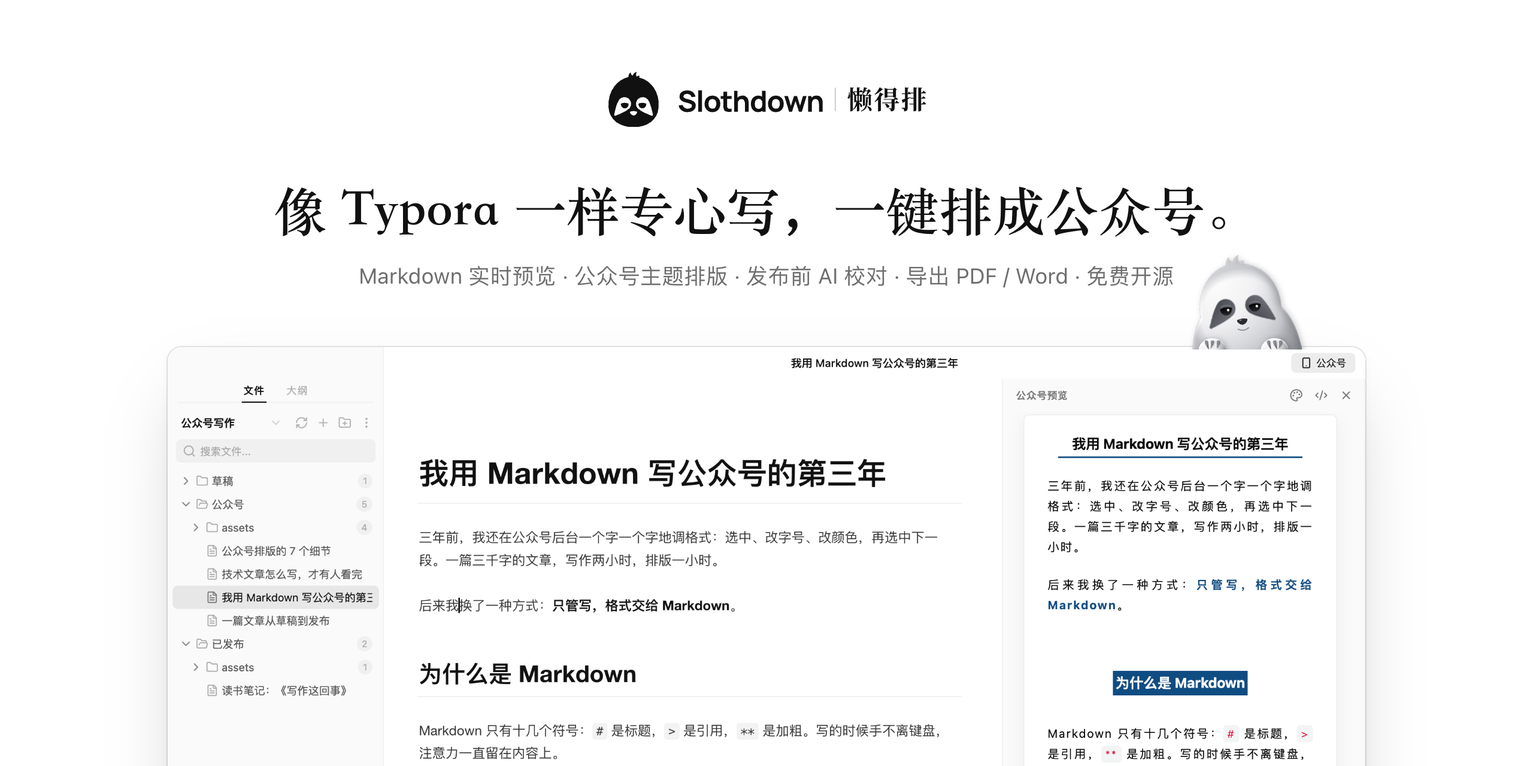
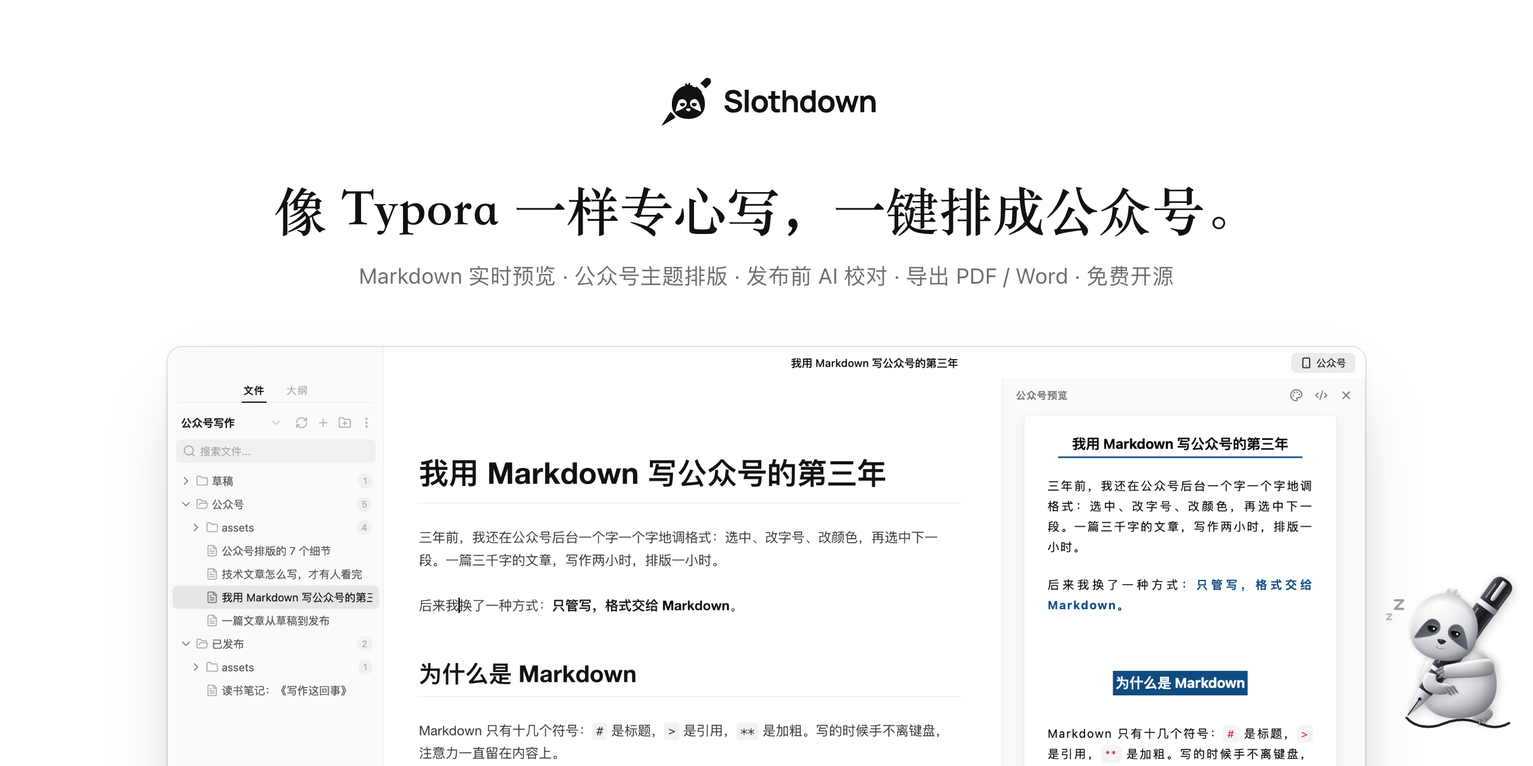
brand: refresh lockups, marketing images, website and screenshots
Lockups are now mark/icon + Slothdown only (build_brand.py drops the CJK
wordmark). Banner, social preview, share card, poster (slogan as headline,
Slothdown as the name) and workflow use the pen-sloth. The website hero
plays the splash's mark + wordmark + ink-line intro, with the slogan under
it; hero/closing art is the pen-sloth. Welcome and splash screenshots are
retaken at 1440x900@2x and their WebP copies refreshed.

Changed region(s): [[0.9062, 0.75, 1.0, 0.9688], [0.375, 0.0938, 0.625, 0.1875], [0.7812, 0.3438, 0.875, 0.4688]]

diff --git a/website/style.css b/website/style.css
@@ -78,50 +78,41 @@ h1, h2, h3 { margin: 0; font-weight: 700; }
 
 /* ------------------------------------------------------------------ hero */
 .hero { padding: 112px 0 0; text-align: center; }
-.mark-line { position: relative; display: flex; justify-content: center; align-items: center; height: 132px; }
-.mark-src, .mark-h { white-space: nowrap; }
-.mark-src {
-  position: absolute; font: 400 34px/1 var(--mono); color: #8a8a8a; letter-spacing: 0.02em;
-}
-.mark-src .mk { position: absolute; right: 100%; padding-right: 0.6em; color: #b5b5b1; }
-.mark-src .txt { display: inline-block; }
-.mark-src .caret { position: absolute; left: 100%; top: -0.1em; bottom: -0.1em; width: 2px; margin-left: 3px; background: var(--ink); opacity: 0; }
-.mark-h { font: 700 112px/1 var(--serif); letter-spacing: 0.06em; text-indent: 0.06em; }
-.mark-rule { width: 48px; height: 1px; margin: 30px auto 0; background: #bdbdb9; }
-.hero-word { margin-top: 18px; font-size: 12px; letter-spacing: 0.42em; text-indent: 0.42em; text-transform: uppercase; color: var(--faint); }
-.hero-title { margin-top: 30px; font: 700 34px/1.45 var(--serif); letter-spacing: 0.02em; }
+/* logo lockup: [mark] Slothdown, with the ink line drawn from the pen nib (coordinates match the 285 × 64 ink viewBox) */
+.hero-lockup { position: relative; width: min(570px, 84vw); aspect-ratio: 285 / 64; margin: 0 auto; color: var(--ink); }
+.hero-lockup svg { position: absolute; display: block; overflow: visible; }
+.hl-mark { left: 0; top: 0; width: 19.65%; height: 87.5%; }
+.hl-word { left: 24.56%; top: 17.19%; width: 75.44%; height: 53.13%; }
+.hl-ink { left: 0; top: 0; width: 100%; height: 100%; }
+.hl-ink path { fill: none; stroke: var(--ink); stroke-width: 1.5; stroke-linecap: round; stroke-dasharray: 300; stroke-dashoffset: 0; }
+.hero-slogan { margin-top: 34px; font: 400 20px/1.5 var(--serif); letter-spacing: 0.06em; color: var(--muted); }
+.hero-title { margin-top: 14px; font: 700 34px/1.45 var(--serif); letter-spacing: 0.02em; }
 .hero-sub { margin: 14px auto 0; max-width: 560px; color: var(--muted); font-size: 17px; }
 .hero-cta { display: flex; justify-content: center; gap: 12px; margin-top: 38px; flex-wrap: wrap; }
 .hero-note { margin-top: 18px; font-size: 13px; color: var(--faint); letter-spacing: 0.02em; }
 .hero-note span + span::before { content: " · "; }
-/* the app window, with the sloth rising over its top edge, paws resting on it (as in the app icon); it rises from behind the window */
+/* the app window, with the pen-hugging sloth dozing on its top edge (its ink line resting on the edge); it rises from behind the window */
 .hero-stage { position: relative; margin-top: 96px; }
-.hero-stage .peek { position: absolute; right: 7%; bottom: 100%; width: 240px; height: auto; margin-bottom: -3px; z-index: 0; pointer-events: none; }
+.hero-stage .peek { position: absolute; right: 7%; bottom: 100%; width: 200px; height: auto; margin-bottom: -22px; z-index: 0; pointer-events: none; }
 .hero-shot { position: relative; z-index: 1; }
 
-/* splash-like intro: # Slothdown (source) is "typeset" into the serif heading, then the SLOTHDOWN word */
-.anim .mark-src { animation: src-in 0.25s ease-out 0.15s both; }
-.anim .mark-src .caret { animation: blink 0.7s steps(1, end) 0.15s both; }
-.anim .mark-src .mk { animation: mk-out 0.35s cubic-bezier(0.4, 0, 1, 1) 0.75s both; }
-.anim .mark-src .txt { animation: src-out 0.5s cubic-bezier(0.4, 0, 0.7, 1) 0.85s both; }
-.anim .mark-h { animation: h-in 0.8s var(--ease) 0.9s both; }
-.anim .mark-rule { animation: rule 0.6s var(--ease) 1.35s both; }
-.anim .hero-word { animation: rise 0.7s var(--ease) 1.4s both; }
-.anim .hero-title { animation: rise 0.7s var(--ease) 1.45s both; }
+/* splash-like intro: the sloth mark settles, the wordmark slides in, the pen draws the ink underline */
+.anim .hl-mark { animation: settle 0.7s var(--ease) 0.15s both; }
+.anim .hl-word { animation: word-in 0.7s var(--ease) 0.45s both; }
+.anim .hl-ink path { animation: draw 0.8s cubic-bezier(0.65, 0, 0.35, 1) 0.8s both; }
+.anim .hero-slogan { animation: rise 0.7s var(--ease) 1.3s both; }
+.anim .hero-title { animation: rise 0.7s var(--ease) 1.4s both; }
 .anim .hero-sub, .anim .hero-cta, .anim .hero-note { animation: rise 0.7s var(--ease) 1.6s both; }
 .anim .hero-shot { animation: rise-lg 1s var(--ease) 1.75s both; }
 .anim .hero-stage .peek { animation: peek 1.4s var(--ease) 2.2s both; } /* slowly, like a sloth */
 
-@keyframes src-in { from { opacity: 0; } to { opacity: 1; } }
-@keyframes blink { 0% { opacity: 1; } 45% { opacity: 0; } 75% { opacity: 1; } 100% { opacity: 0; } }
-@keyframes mk-out { from { opacity: 1; transform: none; } to { opacity: 0; transform: translateX(-16px); } }
-@keyframes src-out { from { opacity: 1; transform: scale(1); filter: blur(0); } 60% { opacity: 0.12; } to { opacity: 0; transform: scale(2.4); filter: blur(3px); } }
-@keyframes h-in { from { opacity: 0; transform: scale(0.32); filter: blur(4px); } 45% { opacity: 1; } to { opacity: 1; transform: none; filter: blur(0); } }
-@keyframes rule { from { opacity: 0; transform: scaleX(0); } to { opacity: 1; transform: none; } }
+@keyframes fade { from { opacity: 0; } to { opacity: 1; } }
+@keyframes settle { from { opacity: 0; transform: translateY(14px) scale(0.94); } to { opacity: 1; transform: none; } }
+@keyframes word-in { from { opacity: 0; transform: translateX(-14px); filter: blur(3px); } to { opacity: 1; transform: none; filter: blur(0); } }
+@keyframes draw { from { stroke-dashoffset: 300; } to { stroke-dashoffset: 0; } }
 @keyframes rise { from { opacity: 0; transform: translateY(10px); } to { opacity: 1; transform: none; } }
-@keyframes peek { from { transform: translateY(70%); } to { transform: none; } }
+@keyframes peek { from { opacity: 0; transform: translateY(70%); } 25% { opacity: 1; } to { opacity: 1; transform: none; } }
 @keyframes rise-lg { from { opacity: 0; transform: translateY(28px); } to { opacity: 1; transform: none; } }
-.mark-src { opacity: 0; } /* the source line only exists as part of the animation */
 
 /* ------------------------------------------------------------------ window frame */
 .win {
@@ -212,8 +203,8 @@ code { font: 0.9em var(--mono); background: var(--paper-2); padding: 0.1em 0.35e
 .faq details p { padding: 0 48px 26px 0; color: var(--muted); font-size: 15.5px; }
 
 /* closing */
-.closing { position: relative; overflow: hidden; padding: 200px 0 196px; text-align: center; }
-.closing-peek { position: absolute; left: 50%; bottom: 0; width: 320px; height: auto; transform: translateX(-50%); pointer-events: none; }
+.closing { position: relative; overflow: hidden; padding: 200px 0 300px; text-align: center; }
+.closing-peek { position: absolute; left: 50%; bottom: 24px; width: 200px; height: auto; transform: translateX(-50%); pointer-events: none; }
 .closing h2 { font: 700 56px/1.3 var(--serif); letter-spacing: 0.04em; }
 .closing p { margin-top: 18px; color: var(--muted); }
 .closing .hero-cta { margin-top: 36px; }
@@ -242,17 +233,15 @@ code { font: 0.9em var(--mono); background: var(--paper-2); padding: 0.1em 0.35e
   .nav-links a:not(.keep) { display: none; }
   .nav .wrap { gap: 16px; }
   .hero { padding-top: 64px; }
-  .mark-line { height: 88px; }
-  .mark-h { font-size: 72px; }
-  .mark-src { font-size: 24px; }
+  .hero-slogan { margin-top: 24px; font-size: 17px; }
   .hero-title { font-size: 24px; margin-top: 26px; }
   .hero-sub { font-size: 15px; }
   .hero-title span { display: block; }
   .hero-note span { display: block; }
   .hero-note span + span::before { content: none; }
   .hero-stage { margin-top: 64px; }
-  .hero-stage .peek { width: 150px; margin-bottom: -2px; }
-  .closing-peek { width: 240px; }
+  .hero-stage .peek { width: 128px; margin-bottom: -14px; }
+  .closing-peek { width: 150px; }
   .win { border-radius: 8px; }
   .section { padding-top: 112px; }
   .section-head h2 { font-size: 32px; }
@@ -267,16 +256,16 @@ code { font: 0.9em var(--mono); background: var(--paper-2); padding: 0.1em 0.35e
   .keys { grid-template-columns: 1fr; margin-top: 48px; }
   .switcher button { padding: 8px 12px; }
   .faq details p { padding-right: 0; }
-  .closing { padding: 140px 0 150px; }
+  .closing { padding: 140px 0 220px; }
   .closing h2 { font-size: 38px; }
   .footer nav { margin-left: 0; }
 }
 
 @media (prefers-reduced-motion: reduce) {
   html { scroll-behavior: auto; }
-  .anim .mark-src, .anim .mark-src * { animation: none !important; opacity: 0 !important; }
-  .anim .mark-h, .anim .mark-rule, .anim .hero-word, .anim .hero-stage .peek, .anim .hero-title, .anim .hero-sub, .anim .hero-cta, .anim .hero-note, .anim .hero-shot {
-    animation: src-in 0.4s ease-out both !important;
+  .anim .hl-ink path { animation: none !important; }
+  .anim .hl-mark, .anim .hl-word, .anim .hl-ink, .anim .hero-slogan, .anim .hero-stage .peek, .anim .hero-title, .anim .hero-sub, .anim .hero-cta, .anim .hero-note, .anim .hero-shot {
+    animation: fade 0.4s ease-out both !important;
   }
   .js .reveal { transform: none; transition: opacity 0.4s ease-out; }
   .stack > img { transition: none; }

diff --git a/website/en/index.html b/website/en/index.html
@@ -57,12 +57,13 @@
   <section class="hero anim">
     <div class="wrap">
       <h1 class="sr-only">Slothdown</h1>
-      <div class="mark-line" aria-hidden="true">
-        <span class="mark-src"><span class="mk">#</span><span class="txt">Slothdown</span><span class="caret"></span></span>
-        <span class="mark-h">Slothdown</span>
+      <!-- logo: the pen-sloth mark + Slothdown wordmark; an ink line is drawn from the pen nib into the underline (same as the app's splash) -->
+      <div class="hero-lockup" aria-hidden="true">
+        <svg class="hl-mark" viewBox="0 0 200 200"><path fill="currentColor" fill-rule="evenodd" d="M 58.6 121.4 C 56.6 85.4 77.6 58.5 104.1 52.5 Q 104.1 45.8 109.3 41.8 Q 109.7 47 113.6 49.7 Q 116 42.6 123.1 40.6 Q 120.4 46.2 122.7 51.3 Q 126.7 48.6 130.3 49.7 Q 128.3 51.7 129.1 53.7 C 156.4 60 176.2 87.4 173.4 121.4 C 171.4 151.9 146.1 167.4 116 167.4 C 85.9 167.4 60.6 151.9 58.6 121.4 Z M 106.8 123.8 C 112.3 117.3 111.5 107.6 104.9 102.1 C 98.4 96.6 88.7 97.4 83.2 104 C 76.2 114.2 74.1 129.2 71.6 138.7 Q 71.7 141.6 74.7 141.3 C 83.5 137.2 98 132.4 106.8 123.8 Z M 148.8 104 C 143.3 97.4 133.6 96.6 127.1 102.1 C 120.5 107.6 119.7 117.3 125.2 123.8 C 134 132.4 148.5 137.2 157.3 141.3 Q 160.3 141.6 160.4 138.7 C 157.9 129.2 155.8 114.2 148.8 104 Z M 86.7 113.5 Q 95.8 109.5 104.9 113.5 C 104.9 120.7 100.6 124.2 95.8 124.2 C 91 124.2 86.7 120.7 86.7 113.5 Z M 127.1 113.5 Q 136.2 109.5 145.3 113.5 C 145.3 120.7 141 124.2 136.2 124.2 C 131.4 124.2 127.1 120.7 127.1 113.5 Z M 107.7 132.1 Q 116 128.6 124.3 132.1 Q 123.9 138.5 116 140.8 Q 108.1 138.5 107.7 132.1 Z"/><path fill="currentColor" fill-rule="evenodd" d="M 157.4 43.9 L 174.1 27.8 A 12.5 12.5 0 0 1 191.5 45.7 L 175.3 61.4 A 73 73 0 0 0 157.4 43.9 Z M 137.8 61.4 L 145 54.5 L 163.7 73.9 L 156.5 80.8 Z"/><path fill="currentColor" d="M 22 192 L 47.3 152 L 54.5 143.3 A 73 73 0 0 1 71.3 161.7 L 62.9 168.1 Z"/></svg>
+        <svg class="hl-word" viewBox="0 0 998.64 158"><path fill="currentColor" transform="translate(-3.8 151)" d="M67.74 3Q51.88 3 39.15 -2.56Q26.42 -8.12 18.23 -18.49Q10.04 -28.85 7.8 -43.18L34.2 -47.12Q37.29 -34.48 47.02 -27.59Q56.75 -20.7 69.36 -20.7Q76.65 -20.7 83.26 -22.99Q89.87 -25.28 94.03 -29.7Q98.2 -34.11 98.2 -40.48Q98.2 -43.19 97.34 -45.52Q96.49 -47.86 94.73 -49.78Q92.96 -51.71 90.04 -53.33Q87.11 -54.95 82.98 -56.22L45.72 -67.2Q41.16 -68.51 35.6 -70.82Q30.04 -73.13 25 -77.24Q19.96 -81.35 16.68 -87.92Q13.4 -94.5 13.4 -104.34Q13.4 -118.49 20.57 -127.98Q27.73 -137.48 39.77 -142.2Q51.81 -146.91 66.52 -146.82Q81.34 -146.64 92.99 -141.71Q104.64 -136.78 112.47 -127.42Q120.29 -118.06 123.62 -104.64L96.32 -99.98Q94.74 -107.33 90.27 -112.44Q85.8 -117.56 79.49 -120.25Q73.19 -122.94 66.16 -123.12Q59.27 -123.3 53.33 -121.15Q47.39 -119.01 43.72 -115.02Q40.04 -111.03 40.04 -105.62Q40.04 -100.53 43.12 -97.36Q46.19 -94.19 50.82 -92.29Q55.45 -90.38 60.2 -89.12L85.68 -82.1Q91.1 -80.64 97.77 -78.22Q104.44 -75.8 110.6 -71.49Q116.76 -67.17 120.76 -60.13Q124.76 -53.08 124.76 -42.28Q124.76 -30.91 120.05 -22.38Q115.33 -13.84 107.29 -8.23Q99.25 -2.61 89.02 0.2Q78.78 3 67.74 3ZM142.2 0V-147H167.52V0ZM239.58 3Q223.31 3 211.14 -4.3Q198.97 -11.6 192.24 -24.45Q185.5 -37.31 185.5 -54.02Q185.5 -70.93 192.38 -83.77Q199.26 -96.62 211.44 -103.81Q223.61 -111 239.58 -111Q255.86 -111 268.08 -103.7Q280.29 -96.41 287.07 -83.56Q293.84 -70.72 293.84 -54.02Q293.84 -37.19 287.02 -24.34Q280.19 -11.49 267.97 -4.25Q255.75 3 239.58 3ZM239.58 -20.7Q253.41 -20.7 260.21 -30.02Q267.02 -39.34 267.02 -54.02Q267.02 -69.19 260.12 -78.24Q253.22 -87.3 239.58 -87.3Q230.2 -87.3 224.18 -83.08Q218.15 -78.86 215.24 -71.38Q212.32 -63.9 212.32 -54.02Q212.32 -38.77 219.24 -29.74Q226.16 -20.7 239.58 -20.7ZM372.1 0Q361.21 2.07 350.75 1.8Q340.28 1.53 332.05 -2Q323.83 -5.53 319.56 -13.32Q315.72 -20.51 315.51 -27.94Q315.3 -35.37 315.3 -44.8V-138H340.62V-46.24Q340.62 -39.87 340.77 -34.9Q340.92 -29.92 342.82 -26.84Q346.42 -20.99 354.31 -20.38Q362.2 -19.76 372.1 -21.14ZM296.2 -88.26V-108H372.1V-88.26ZM463.56 0V-51.62Q463.56 -56.11 462.96 -62.13Q462.37 -68.15 460.02 -73.92Q457.67 -79.7 452.74 -83.48Q447.81 -87.26 439.14 -87.26Q435 -87.26 430.71 -85.92Q426.41 -84.59 422.83 -81.15Q419.25 -77.72 417.03 -71.45Q414.8 -65.18 414.8 -55.22L399.98 -61.86Q399.98 -75.23 405.27 -86.44Q410.56 -97.66 420.97 -104.39Q431.38 -111.12 446.88 -111.12Q459.13 -111.12 467.02 -107.02Q474.9 -102.92 479.44 -96.54Q483.98 -90.17 486.06 -83.1Q488.14 -76.04 488.69 -69.92Q489.24 -63.81 489.24 -60.42V0ZM389.12 0V-144H411.68V-68.9H414.8V0ZM553.52 3Q538.58 3 527.46 -4.5Q516.33 -12.01 510.17 -24.91Q504 -37.82 504 -54.02Q504 -70.46 510.25 -83.32Q516.49 -96.17 527.86 -103.59Q539.22 -111 554.62 -111Q569.99 -111 580.48 -103.51Q590.96 -96.03 596.35 -83.13Q601.74 -70.24 601.74 -54.02Q601.74 -37.83 596.31 -24.92Q590.88 -12.02 580.16 -4.51Q569.44 3 553.52 3ZM557.48 -19.62Q566.94 -19.62 572.7 -23.95Q578.46 -28.28 581.05 -36.05Q583.64 -43.81 583.64 -54.02Q583.64 -64.25 581.04 -72Q578.45 -79.76 572.87 -84.07Q567.29 -88.38 558.38 -88.38Q548.9 -88.38 542.79 -83.74Q536.68 -79.1 533.75 -71.3Q530.82 -63.5 530.82 -54.02Q530.82 -44.44 533.68 -36.63Q536.54 -28.82 542.43 -24.22Q548.31 -19.62 557.48 -19.62ZM583.64 0V-75.1H580.52V-144H606.02V0ZM676.08 3Q659.81 3 647.64 -4.3Q635.47 -11.6 628.74 -24.45Q622 -37.31 622 -54.02Q622 -70.93 628.88 -83.77Q635.76 -96.62 647.94 -103.81Q660.11 -111 676.08 -111Q692.36 -111 704.58 -103.7Q716.79 -96.41 723.57 -83.56Q730.34 -70.72 730.34 -54.02Q730.34 -37.19 723.52 -24.34Q716.69 -11.49 704.47 -4.25Q692.25 3 676.08 3ZM676.08 -20.7Q689.91 -20.7 696.71 -30.02Q703.52 -39.34 703.52 -54.02Q703.52 -69.19 696.62 -78.24Q689.72 -87.3 676.08 -87.3Q666.7 -87.3 660.68 -83.08Q654.65 -78.86 651.74 -71.38Q648.82 -63.9 648.82 -54.02Q648.82 -38.77 655.74 -29.74Q662.66 -20.7 676.08 -20.7ZM767.3 0 734.3 -108.18 759.12 -108 779.62 -40.68 800.39 -108H821.61L842.38 -40.68L862.9 -108H887.7L854.7 0H835.1L811 -72.74L786.9 0ZM972.76 0V-51.62Q972.76 -56.11 972.16 -62.13Q971.57 -68.15 969.22 -73.92Q966.87 -79.7 961.94 -83.48Q957.01 -87.26 948.34 -87.26Q944.2 -87.26 939.91 -85.92Q935.61 -84.59 932.03 -81.15Q928.45 -77.72 926.23 -71.45Q924 -65.18 924 -55.22L909.18 -61.86Q909.18 -75.23 914.47 -86.44Q919.76 -97.66 930.17 -104.39Q940.58 -111.12 956.08 -111.12Q968.33 -111.12 976.22 -107.02Q984.1 -102.92 988.64 -96.54Q993.18 -90.17 995.26 -83.1Q997.34 -76.04 997.89 -69.92Q998.44 -63.81 998.44 -60.42V0ZM898.32 0V-108H920.88V-73.58H924V0Z"/></svg>
+        <svg class="hl-ink" viewBox="0 0 285 64"><path d="M 6.2 53.8 C 26 63 62 63 104 57.5 C 150 51.5 190 51 228 56 C 256 59.6 272 59 284 54.5"/></svg>
       </div>
-      <div class="mark-rule" aria-hidden="true"></div>
-      <p class="hero-word" aria-hidden="true">Slothdown</p>
+      <p class="hero-slogan">Too lazy to format? Leave it to the sloth.</p>
       <p class="hero-title"><span>Write with Typora-like calm.</span> <span>Publish to WeChat in one click.</span></p>
       <p class="hero-sub">A desktop Markdown editor for WeChat Official Account (公众号) writers. Formatted the moment you finish, proofread by AI before you publish.</p>
       <div class="hero-cta">

diff --git a/website/index.html b/website/index.html
@@ -57,12 +57,13 @@
   <section class="hero anim">
     <div class="wrap">
       <h1 class="sr-only">Slothdown</h1>
-      <div class="mark-line" aria-hidden="true">
-        <span class="mark-src"><span class="mk">#</span><span class="txt">Slothdown</span><span class="caret"></span></span>
-        <span class="mark-h">Slothdown</span>
+      <!-- logo: the pen-sloth mark + Slothdown wordmark; an ink line is drawn from the pen nib into the underline (same as the app's splash) -->
+      <div class="hero-lockup" aria-hidden="true">
+        <svg class="hl-mark" viewBox="0 0 200 200"><path fill="currentColor" fill-rule="evenodd" d="M 58.6 121.4 C 56.6 85.4 77.6 58.5 104.1 52.5 Q 104.1 45.8 109.3 41.8 Q 109.7 47 113.6 49.7 Q 116 42.6 123.1 40.6 Q 120.4 46.2 122.7 51.3 Q 126.7 48.6 130.3 49.7 Q 128.3 51.7 129.1 53.7 C 156.4 60 176.2 87.4 173.4 121.4 C 171.4 151.9 146.1 167.4 116 167.4 C 85.9 167.4 60.6 151.9 58.6 121.4 Z M 106.8 123.8 C 112.3 117.3 111.5 107.6 104.9 102.1 C 98.4 96.6 88.7 97.4 83.2 104 C 76.2 114.2 74.1 129.2 71.6 138.7 Q 71.7 141.6 74.7 141.3 C 83.5 137.2 98 132.4 106.8 123.8 Z M 148.8 104 C 143.3 97.4 133.6 96.6 127.1 102.1 C 120.5 107.6 119.7 117.3 125.2 123.8 C 134 132.4 148.5 137.2 157.3 141.3 Q 160.3 141.6 160.4 138.7 C 157.9 129.2 155.8 114.2 148.8 104 Z M 86.7 113.5 Q 95.8 109.5 104.9 113.5 C 104.9 120.7 100.6 124.2 95.8 124.2 C 91 124.2 86.7 120.7 86.7 113.5 Z M 127.1 113.5 Q 136.2 109.5 145.3 113.5 C 145.3 120.7 141 124.2 136.2 124.2 C 131.4 124.2 127.1 120.7 127.1 113.5 Z M 107.7 132.1 Q 116 128.6 124.3 132.1 Q 123.9 138.5 116 140.8 Q 108.1 138.5 107.7 132.1 Z"/><path fill="currentColor" fill-rule="evenodd" d="M 157.4 43.9 L 174.1 27.8 A 12.5 12.5 0 0 1 191.5 45.7 L 175.3 61.4 A 73 73 0 0 0 157.4 43.9 Z M 137.8 61.4 L 145 54.5 L 163.7 73.9 L 156.5 80.8 Z"/><path fill="currentColor" d="M 22 192 L 47.3 152 L 54.5 143.3 A 73 73 0 0 1 71.3 161.7 L 62.9 168.1 Z"/></svg>
+        <svg class="hl-word" viewBox="0 0 998.64 158"><path fill="currentColor" transform="translate(-3.8 151)" d="M67.74 3Q51.88 3 39.15 -2.56Q26.42 -8.12 18.23 -18.49Q10.04 -28.85 7.8 -43.18L34.2 -47.12Q37.29 -34.48 47.02 -27.59Q56.75 -20.7 69.36 -20.7Q76.65 -20.7 83.26 -22.99Q89.87 -25.28 94.03 -29.7Q98.2 -34.11 98.2 -40.48Q98.2 -43.19 97.34 -45.52Q96.49 -47.86 94.73 -49.78Q92.96 -51.71 90.04 -53.33Q87.11 -54.95 82.98 -56.22L45.72 -67.2Q41.16 -68.51 35.6 -70.82Q30.04 -73.13 25 -77.24Q19.96 -81.35 16.68 -87.92Q13.4 -94.5 13.4 -104.34Q13.4 -118.49 20.57 -127.98Q27.73 -137.48 39.77 -142.2Q51.81 -146.91 66.52 -146.82Q81.34 -146.64 92.99 -141.71Q104.64 -136.78 112.47 -127.42Q120.29 -118.06 123.62 -104.64L96.32 -99.98Q94.74 -107.33 90.27 -112.44Q85.8 -117.56 79.49 -120.25Q73.19 -122.94 66.16 -123.12Q59.27 -123.3 53.33 -121.15Q47.39 -119.01 43.72 -115.02Q40.04 -111.03 40.04 -105.62Q40.04 -100.53 43.12 -97.36Q46.19 -94.19 50.82 -92.29Q55.45 -90.38 60.2 -89.12L85.68 -82.1Q91.1 -80.64 97.77 -78.22Q104.44 -75.8 110.6 -71.49Q116.76 -67.17 120.76 -60.13Q124.76 -53.08 124.76 -42.28Q124.76 -30.91 120.05 -22.38Q115.33 -13.84 107.29 -8.23Q99.25 -2.61 89.02 0.2Q78.78 3 67.74 3ZM142.2 0V-147H167.52V0ZM239.58 3Q223.31 3 211.14 -4.3Q198.97 -11.6 192.24 -24.45Q185.5 -37.31 185.5 -54.02Q185.5 -70.93 192.38 -83.77Q199.26 -96.62 211.44 -103.81Q223.61 -111 239.58 -111Q255.86 -111 268.08 -103.7Q280.29 -96.41 287.07 -83.56Q293.84 -70.72 293.84 -54.02Q293.84 -37.19 287.02 -24.34Q280.19 -11.49 267.97 -4.25Q255.75 3 239.58 3ZM239.58 -20.7Q253.41 -20.7 260.21 -30.02Q267.02 -39.34 267.02 -54.02Q267.02 -69.19 260.12 -78.24Q253.22 -87.3 239.58 -87.3Q230.2 -87.3 224.18 -83.08Q218.15 -78.86 215.24 -71.38Q212.32 -63.9 212.32 -54.02Q212.32 -38.77 219.24 -29.74Q226.16 -20.7 239.58 -20.7ZM372.1 0Q361.21 2.07 350.75 1.8Q340.28 1.53 332.05 -2Q323.83 -5.53 319.56 -13.32Q315.72 -20.51 315.51 -27.94Q315.3 -35.37 315.3 -44.8V-138H340.62V-46.24Q340.62 -39.87 340.77 -34.9Q340.92 -29.92 342.82 -26.84Q346.42 -20.99 354.31 -20.38Q362.2 -19.76 372.1 -21.14ZM296.2 -88.26V-108H372.1V-88.26ZM463.56 0V-51.62Q463.56 -56.11 462.96 -62.13Q462.37 -68.15 460.02 -73.92Q457.67 -79.7 452.74 -83.48Q447.81 -87.26 439.14 -87.26Q435 -87.26 430.71 -85.92Q426.41 -84.59 422.83 -81.15Q419.25 -77.72 417.03 -71.45Q414.8 -65.18 414.8 -55.22L399.98 -61.86Q399.98 -75.23 405.27 -86.44Q410.56 -97.66 420.97 -104.39Q431.38 -111.12 446.88 -111.12Q459.13 -111.12 467.02 -107.02Q474.9 -102.92 479.44 -96.54Q483.98 -90.17 486.06 -83.1Q488.14 -76.04 488.69 -69.92Q489.24 -63.81 489.24 -60.42V0ZM389.12 0V-144H411.68V-68.9H414.8V0ZM553.52 3Q538.58 3 527.46 -4.5Q516.33 -12.01 510.17 -24.91Q504 -37.82 504 -54.02Q504 -70.46 510.25 -83.32Q516.49 -96.17 527.86 -103.59Q539.22 -111 554.62 -111Q569.99 -111 580.48 -103.51Q590.96 -96.03 596.35 -83.13Q601.74 -70.24 601.74 -54.02Q601.74 -37.83 596.31 -24.92Q590.88 -12.02 580.16 -4.51Q569.44 3 553.52 3ZM557.48 -19.62Q566.94 -19.62 572.7 -23.95Q578.46 -28.28 581.05 -36.05Q583.64 -43.81 583.64 -54.02Q583.64 -64.25 581.04 -72Q578.45 -79.76 572.87 -84.07Q567.29 -88.38 558.38 -88.38Q548.9 -88.38 542.79 -83.74Q536.68 -79.1 533.75 -71.3Q530.82 -63.5 530.82 -54.02Q530.82 -44.44 533.68 -36.63Q536.54 -28.82 542.43 -24.22Q548.31 -19.62 557.48 -19.62ZM583.64 0V-75.1H580.52V-144H606.02V0ZM676.08 3Q659.81 3 647.64 -4.3Q635.47 -11.6 628.74 -24.45Q622 -37.31 622 -54.02Q622 -70.93 628.88 -83.77Q635.76 -96.62 647.94 -103.81Q660.11 -111 676.08 -111Q692.36 -111 704.58 -103.7Q716.79 -96.41 723.57 -83.56Q730.34 -70.72 730.34 -54.02Q730.34 -37.19 723.52 -24.34Q716.69 -11.49 704.47 -4.25Q692.25 3 676.08 3ZM676.08 -20.7Q689.91 -20.7 696.71 -30.02Q703.52 -39.34 703.52 -54.02Q703.52 -69.19 696.62 -78.24Q689.72 -87.3 676.08 -87.3Q666.7 -87.3 660.68 -83.08Q654.65 -78.86 651.74 -71.38Q648.82 -63.9 648.82 -54.02Q648.82 -38.77 655.74 -29.74Q662.66 -20.7 676.08 -20.7ZM767.3 0 734.3 -108.18 759.12 -108 779.62 -40.68 800.39 -108H821.61L842.38 -40.68L862.9 -108H887.7L854.7 0H835.1L811 -72.74L786.9 0ZM972.76 0V-51.62Q972.76 -56.11 972.16 -62.13Q971.57 -68.15 969.22 -73.92Q966.87 -79.7 961.94 -83.48Q957.01 -87.26 948.34 -87.26Q944.2 -87.26 939.91 -85.92Q935.61 -84.59 932.03 -81.15Q928.45 -77.72 926.23 -71.45Q924 -65.18 924 -55.22L909.18 -61.86Q909.18 -75.23 914.47 -86.44Q919.76 -97.66 930.17 -104.39Q940.58 -111.12 956.08 -111.12Q968.33 -111.12 976.22 -107.02Q984.1 -102.92 988.64 -96.54Q993.18 -90.17 995.26 -83.1Q997.34 -76.04 997.89 -69.92Q998.44 -63.81 998.44 -60.42V0ZM898.32 0V-108H920.88V-73.58H924V0Z"/></svg>
+        <svg class="hl-ink" viewBox="0 0 285 64"><path d="M 6.2 53.8 C 26 63 62 63 104 57.5 C 150 51.5 190 51 228 56 C 256 59.6 272 59 284 54.5"/></svg>
       </div>
-      <div class="mark-rule" aria-hidden="true"></div>
-      <p class="hero-word" aria-hidden="true">Slothdown</p>
+      <p class="hero-slogan">懒得排版？交给树懒。</p>
       <p class="hero-title"><span>像 Typora 一样专心写，</span><span>一键排成公众号。</span></p>
       <p class="hero-sub">给公众号作者的 Markdown 桌面编辑器。<br>写完就排好，发布前让 AI 再校对一遍。</p>
       <div class="hero-cta">

diff --git a/docs/assets/brand/src/poster-xhs.html b/docs/assets/brand/src/poster-xhs.html
@@ -10,13 +10,13 @@
   .eyebrow { position: absolute; left: 88px; top: 226px; font-size: 26px; letter-spacing: .08em; }
   h1 { position: absolute; left: 82px; top: 270px; font-size: 112px; line-height: 1.18; letter-spacing: .02em; }
   .lede { position: absolute; left: 88px; top: 556px; font-size: 26px; line-height: 1.6; color: var(--ink-2); }
-  ol { position: absolute; left: 88px; right: 88px; top: 664px; list-style: none; border-top: 1px solid var(--line); }
+  ol { position: absolute; left: 88px; right: 480px; top: 664px; list-style: none; border-top: 1px solid var(--line); }
   li { display: grid; grid-template-columns: 68px 1fr; align-items: baseline; padding: 18px 0; border-bottom: 1px solid var(--line); }
   .n { font-size: 22px; color: var(--faint); font-variant-numeric: tabular-nums; letter-spacing: .04em; }
   .t { font-family: var(--font-serif); font-weight: 700; font-size: 32px; }
   .d { grid-column: 2; margin-top: 6px; font-size: 22px; line-height: 1.55; color: var(--muted); }
-  /* the mascot: the family sloth rising from the bottom edge, paws on the ledge (like in the app icon) */
-  .peek { position: absolute; right: -40px; bottom: 0; width: 800px; }
+  /* hero: the pen-hugging, dozing sloth (the app icon's mascot), its ink line resting on the bottom margin */
+  .peek { position: absolute; right: 56px; bottom: 96px; width: 440px; }
   .say { position: absolute; left: 88px; bottom: 132px; font-family: var(--font-serif); font-weight: 700; font-size: 30px; line-height: 1.5; }
   .url { position: absolute; left: 88px; bottom: 84px; font-size: 20px; color: var(--muted); letter-spacing: .03em; }
 </style></head>
@@ -27,7 +27,7 @@
   </div>
   <p class="eyebrow muted">还在公众号后台一段一段调格式？</p>
   <h1 class="serif">懒得排版？<br>交给树懒。</h1>
-  <p class="lede">Slothdown，给公众号作者的 Markdown 编辑器。<br>你慢慢写，排版它来。</p>
+  <p class="lede">Slothdown · 给公众号作者的 Markdown 编辑器。<br>你慢慢写，排版它来。</p>
   <ol>
     <li><span class="n">01</span><span class="t">像 Typora 一样专心写</span><span class="d">实时预览，专注模式、打字机模式</span></li>
     <li><span class="n">02</span><span class="t">发布前，AI 帮你校对</span><span class="d">只挑错别字和标点，改不改由你决定</span></li>

diff --git a/docs/assets/brand/src/contact-sheet.html b/docs/assets/brand/src/contact-sheet.html
@@ -1,5 +1,5 @@
 <!doctype html>
-<!-- Slothdown 品牌检查表：单色标志在 16–512 px、浅色 / 深色背景下的可读性，字标、组合标志、应用图标（完整 / 只有头部的小尺寸版）、吉祥物。 -->
+<!-- Slothdown 品牌检查表：单色标志在 16–512 px、浅色 / 深色背景下的可读性，字标、组合标志、应用图标（完整 / 头 + 钢笔的小尺寸版）、吉祥物（抱着钢笔打盹的树懒）。 -->
 <html><head><meta charset="utf-8"><style>
 body{margin:0;font:12px -apple-system,sans-serif;color:#888}
 .band{display:flex;align-items:flex-end;gap:36px;padding:36px 40px}
@@ -9,8 +9,8 @@ body{margin:0;font:12px -apple-system,sans-serif;color:#888}
 </style></head><body>
 <div class="band light" id="l"></div>
 <div class="band dark" id="d"></div>
-<div class="wide light"><img src="../logo-lockup-light.svg" height="64"><img src="../logo-lockup-icon-light.svg" height="72"><img src="../logo-wordmark-light.svg" height="40"><img src="../logo-wordmark-zh-light.svg" height="44"></div>
-<div class="wide dark"><img src="../logo-lockup-dark.svg" height="64"><img src="../logo-lockup-icon-dark.svg" height="72"><img src="../logo-wordmark-dark.svg" height="40"><img src="../logo-wordmark-zh-dark.svg" height="44"></div>
+<div class="wide light"><img src="../logo-lockup-light.svg" height="64"><img src="../logo-lockup-icon-light.svg" height="72"><img src="../logo-wordmark-light.svg" height="40"></div>
+<div class="wide dark"><img src="../logo-lockup-dark.svg" height="64"><img src="../logo-lockup-icon-dark.svg" height="72"><img src="../logo-wordmark-dark.svg" height="40"></div>
 <div class="band paper" id="i"></div>
 <div class="wide light"><img src="../sloth-pen-art.svg" height="200"></div>
 <div class="wide dark"><img src="../sloth-pen-art-dark.svg" height="200"></div>

diff --git a/docs/assets/brand/src/social-preview.html b/docs/assets/brand/src/social-preview.html
@@ -7,7 +7,7 @@
   .lockup { position: absolute; left: 50%; top: 60px; transform: translateX(-50%); height: 46px; }
   h1 { position: absolute; left: 0; right: 0; top: 146px; font-size: 44px; line-height: 1.3; }
   .sub { position: absolute; left: 0; right: 0; top: 218px; font-size: 18px; color: var(--muted); letter-spacing: .02em; }
-  .peek { position: absolute; left: 968px; top: 211px; width: 140px; z-index: 2; } /* paws resting on the window edge */
+  .peek { position: absolute; left: 1150px; bottom: 26px; width: 120px; z-index: 2; } /* dozing just outside the window's right edge */
   .shot { position: absolute; left: 50%; top: 290px; transform: translateX(-50%); z-index: 1; }
 </style></head>
 <body>

diff --git a/docs/assets/brand/src/banner.html b/docs/assets/brand/src/banner.html
@@ -8,8 +8,8 @@
   .lockup { height: 40px; width: auto; align-self: flex-start; }
   h1 { margin-top: 38px; font-size: 38px; line-height: 1.42; }
   .sub { margin-top: 18px; font-size: 16px; line-height: 1.6; color: var(--muted); }
-  /* the sloth rises over the top edge of the app window, paws resting on it (as in the app icon) */
-  .peek { position: absolute; left: 1000px; top: 4px; width: 170px; z-index: 2; }
+  /* the mascot (pen-hugging, dozing sloth) dozes between the copy and the app window */
+  .peek { position: absolute; left: 492px; bottom: 26px; width: 164px; z-index: 2; }
   .shot { position: absolute; left: 676px; top: 100px; z-index: 1; }
 </style></head>
 <body>

diff --git a/docs/assets/brand/src/share-card.html b/docs/assets/brand/src/share-card.html
@@ -9,8 +9,8 @@
   h1 { margin-top: 52px; font-size: 50px; line-height: 1.3; }
   .sub { margin-top: 22px; font-size: 18px; line-height: 1.7; color: var(--muted); }
   .foot { position: absolute; left: 700px; bottom: 44px; font-size: 14px; color: var(--muted); letter-spacing: .04em; }
-  /* sloth peeking up from the bottom edge of the card */
-  .peek { position: absolute; right: -36px; bottom: 0; width: 300px; }
+  /* the pen-hugging sloth dozes in the bottom-right corner */
+  .peek { position: absolute; right: 44px; bottom: 34px; width: 176px; }
   .shot { position: absolute; left: -300px; top: 72px; }
 </style></head>
 <body>

diff --git a/docs/assets/brand/src/workflow.html b/docs/assets/brand/src/workflow.html
@@ -15,7 +15,7 @@
   .n { font-size: 15px; color: var(--faint); letter-spacing: .06em; font-variant-numeric: tabular-nums; }
   .t { font-family: var(--font-serif); font-weight: 700; font-size: 26px; }
   .d { margin-top: 8px; font-size: 15px; line-height: 1.6; color: var(--muted); }
-  .peek { position: absolute; right: 54px; bottom: 0; width: 164px; }
+  .peek { position: absolute; right: 40px; bottom: 18px; width: 112px; }
 </style></head>
 <body>
   <header>

diff --git a/docs/assets/brand/src/tools/build_brand.py b/docs/assets/brand/src/tools/build_brand.py
@@ -1,19 +1,18 @@
-# 懒得排 · Slothdown 字标与组合标志生成器（文字全部转曲，SVG 不依赖字体）。
-# 树懒图标 / 应用内标志 / 吉祥物由 build_sloth.py 生成；这里只排字，并把它们和字标组合起来。
+# Slothdown 字标与组合标志生成器（文字全部转曲，SVG 不依赖字体）。
+# 图标 / 应用内标志 / 吉祥物由 build_icon.py 生成；这里只排字，并把它们和字标组合起来。
+# 产品只有一个名字 Slothdown（v0.3.1 起不再有中文字标）。
 #
-#   logo-wordmark-{light,dark}.svg      Slothdown（Manrope，转曲）
-#   logo-wordmark-zh-{light,dark}.svg   懒得排（思源宋体 / Noto Serif SC Bold，转曲；和启动画面的宋体标题呼应）
-#   logo-lockup-{light,dark}.svg        单色标志（树懒头）+ Slothdown │ 懒得排 —— 小尺寸、导航栏、横幅
-#   logo-lockup-icon-{light,dark}.svg   应用图标（从底边升起的树懒）+ 同样的字 —— 只在图标能显示到 64px 以上时使用
-#   以及上面每个 SVG 的 2 倍 PNG，和吉祥物 sloth-peek*.svg 的 PNG
+#   logo-wordmark-{light,dark}.svg      Slothdown（Manrope Bold，转曲）
+#   logo-lockup-{light,dark}.svg        单色标志（树懒头 + 钢笔）+ Slothdown —— 小尺寸、导航栏、横幅
+#   logo-lockup-icon-{light,dark}.svg   应用图标（抱着钢笔的树懒）+ Slothdown —— 只在图标能显示到 64px 以上时使用
+#   以及上面每个 SVG 的 2 倍 PNG
 #
 # 依赖：pip install fonttools；PNG 用 render-batch.mjs（需要能 import playwright-core 的 node 环境）
 # 字体（SIL OFL，可自由转曲用于标志）：
 #   SD_FONT_LATIN  Manrope 可变字体 Manrope[wght].ttf（github.com/google/fonts/tree/main/ofl/manrope）
-#   SD_FONT_CJK    思源宋体 Bold 或 Noto Serif SC Bold（只需要「懒得排」三个字，Google Fonts 的 text= 子集即可）
 # 用法（仓库根目录）：
-#   python3 docs/assets/brand/src/tools/build_sloth.py
-#   SD_FONT_LATIN=... SD_FONT_CJK=... SD_RENDER=/path/to/render-batch.mjs python3 docs/assets/brand/src/tools/build_brand.py
+#   python3 docs/assets/brand/src/tools/build_icon.py
+#   SD_FONT_LATIN=... SD_RENDER=/path/to/render-batch.mjs python3 docs/assets/brand/src/tools/build_brand.py
 import json
 import os
 import re
@@ -30,14 +29,12 @@ ROOT = os.getcwd()
 BRAND = os.path.join(ROOT, 'docs/assets/brand')
 SRC = os.path.join(BRAND, 'src')
 FONT_LATIN = os.environ.get('SD_FONT_LATIN', 'Manrope.ttf')
-FONT_CJK = os.environ.get('SD_FONT_CJK', 'SourceHanSerifCN-Bold.otf')
 RENDER = os.environ.get('SD_RENDER', os.environ.get('LB_RENDER', os.path.join(SRC, 'tools/render-batch.mjs')))
 
 INK = '#111111'  # 浅色背景上的墨色（与启动画面一致）
 PAPER = '#EDEDED'  # 深色背景上的反白色
 
 LATIN = 'Slothdown'
-ZH = '懒得排'
 
 
 def num(v):
@@ -76,16 +73,14 @@ def latin(size, baseline=0.0, x0=0.0):
     return text_paths(FONT_LATIN, LATIN, size, -0.024, wght=740, kern=LATIN_KERN, baseline=baseline, x0=x0)
 
 
-def cjk(size, baseline=0.0, x0=0.0):
-    return text_paths(FONT_CJK, ZH, size, 0.06, baseline=baseline, x0=x0)
 
 
 # ---------- 图形 ----------
 
 def mark_c(size, x, y, color):
-    """标志（树懒头，单色）：取 build_sloth.py 生成的应用内标志（200 网格，只用 currentColor），换成指定颜色。"""
+    """标志（树懒头 + 钢笔，单色）：取 build_icon.py 生成的应用内标志（200 网格，只用 currentColor），换成指定颜色。"""
     text = open(os.path.join(ROOT, 'src/renderer/src/assets/images/logo-mark.svg'), encoding='utf-8').read()
-    g = re.search(r'<path fill="currentColor".*?/>', text, re.S).group(0).replace('currentColor', color)
+    g = ''.join(re.findall(r'<path fill="currentColor".*?/>', text, re.S)).replace('currentColor', color)
     return f'  <g transform="translate({num(x)} {num(y)}) scale({num(size / 200)})">{g}</g>'
 
 
@@ -126,27 +121,20 @@ def fitted(d_bounds, d, color, pad):
 
 
 def lockup(kind, color):
-    """[标志]  Slothdown │ 懒得排 —— 文字以标志的垂直中线居中。kind: 'mark'（单色标志）或 'icon'（应用图标）。"""
+    """[标志]  Slothdown —— 字标以标志的垂直中线居中。kind: 'mark'（单色标志）或 'icon'（应用图标）。"""
     M = 128  # 标志高度
-    gap = M * (0.30 if kind == 'mark' else 0.26)
+    gap = M * (0.22 if kind == 'mark' else 0.24)
     cap = 1440 / 2000  # Manrope 大写高度 / em
-    lat_size = M * 0.38 / cap
+    lat_size = M * 0.40 / cap
     lat_d, lb = latin(lat_size, baseline=0, x0=M + gap)
     lat_dy = M / 2 - (lb[1] + lb[3]) / 2 + M * 0.035  # 有升部（l t h d），视觉中心略低于墨迹中心
-    rule_x = lb[2] + M * 0.22
-    zh_size = lat_size * 0.88
-    zh_d, zb = cjk(zh_size, baseline=0, x0=rule_x + M * 0.22)
-    zh_dy = M / 2 - (zb[1] + zb[3]) / 2
-    rule_h = M * 0.42
-    W = zb[2] + 2
+    W = lb[2] + 2
     pad = 12 if kind == 'icon' else 0  # 应用图标的落地投影
     head = mark_c(M * 1.04, -M * 0.02, -M * 0.02, color) if kind == 'mark' else icon_a(M, pad, pad)
     body = '\n'.join([
         head,
         f'  <g transform="translate({pad} {pad})">',
         f'  <path fill="{color}" transform="translate(0 {num(lat_dy)})" d="{lat_d}"/>',
-        f'  <rect fill="{color}" fill-opacity="0.28" x="{num(rule_x)}" y="{num(M / 2 - rule_h / 2)}" width="{num(M * 0.016)}" height="{num(rule_h)}"/>',
-        f'  <path fill="{color}" transform="translate(0 {num(zh_dy)})" d="{zh_d}"/>',
         '  </g>',
     ])
     return W + 2 * pad, M + 2 * pad, body
@@ -157,17 +145,14 @@ def main():
         d, b = latin(200)
         w, h, body = fitted(b, d, color, 4)
         write(os.path.join(BRAND, f'logo-wordmark-{suffix}.svg'), svg(w, h, body, 'Slothdown 字标（Manrope，已转曲）。由 build_brand.py 生成'))
-        d, b = cjk(200)
-        w, h, body = fitted(b, d, color, 4)
-        write(os.path.join(BRAND, f'logo-wordmark-zh-{suffix}.svg'), svg(w, h, body, '懒得排 字标（思源宋体 Bold，已转曲）。由 build_brand.py 生成'))
         w, h, body = lockup('mark', color)
-        write(os.path.join(BRAND, f'logo-lockup-{suffix}.svg'), svg(w, h, body, '懒得排 · Slothdown 组合标志（单色标志 + 字标，已转曲）。由 build_brand.py 生成'))
+        write(os.path.join(BRAND, f'logo-lockup-{suffix}.svg'), svg(w, h, body, 'Slothdown 组合标志（单色标志 + 字标，已转曲）。由 build_brand.py 生成'))
         w, h, body = lockup('icon', color)
-        write(os.path.join(BRAND, f'logo-lockup-icon-{suffix}.svg'), svg(w, h, body, '懒得排 · Slothdown 组合标志（应用图标 + 字标，已转曲）。由 build_brand.py 生成'))
+        write(os.path.join(BRAND, f'logo-lockup-icon-{suffix}.svg'), svg(w, h, body, 'Slothdown 组合标志（应用图标 + 字标，已转曲）。由 build_brand.py 生成'))
 
-    # PNG：字标 / 组合标志按 viewBox 的 2 倍；吉祥物（build_sloth.py 生成）按原尺寸
+    # PNG：字标 / 组合标志按 viewBox 的 2 倍（吉祥物 PNG 由 export_icons.py 导出）
     jobs = []
-    for path in written + [os.path.join(BRAND, 'sloth-peek.svg'), os.path.join(BRAND, 'sloth-peek-dark.svg')]:
+    for path in written:
         w, h = (float(v) for v in re.search(r'viewBox="0 0 ([\d.]+) ([\d.]+)"', open(path).read()).groups())
         k = 1 if w >= 1000 else 2
         jobs.append({'src': path, 'out': path[:-4] + '.png', 'w': round(w * k), 'h': round(h * k)})

diff --git a/README.md b/README.md
@@ -6,7 +6,7 @@
 
 <p><i>懒得排版？交给树懒。</i></p>
 
-<p>Slothdown 是给公众号作者的 Markdown 桌面编辑器：<br>像 Typora 一样专心写，一键排成公众号，发布前让 AI 再校对一遍。</p>
+<p>像 Typora 一样专心写，一键排成公众号，发布前让 AI 再校对一遍。</p>
 
 [![CI](https://img.shields.io/github/actions/workflow/status/melonlee/slothdown/ci.yml?style=flat-square&label=CI&color=111111)](https://github.com/melonlee/slothdown/actions/workflows/ci.yml)
 [![Release](https://img.shields.io/github/v/release/melonlee/slothdown?style=flat-square&color=111111)](https://github.com/melonlee/slothdown/releases)
@@ -278,7 +278,7 @@ pnpm build:mac    # 打安装包；另有 build:win / build:linux
 <div align="center">
   <img src="docs/assets/brand/logo-mark.png" width="36" alt="">
   <br>
-  <sub>树懒吉祥物和 喵想 · FantasyAI Lab 同一家族</sub>
+  <sub>图标是一只抱着钢笔打盹的树懒，和 喵想 · FantasyAI Lab 同一吉祥物家族</sub>
   <br>
   <sub>Slothdown · Made by <a href="https://github.com/melonlee">Melon</a> · <a href="https://fantasyailab.com/">FantasyAI Lab</a></sub>
 </div>

diff --git a/README.en.md b/README.en.md
@@ -238,7 +238,7 @@ Issues and pull requests are welcome. Please run `pnpm test` and `pnpm build` be
 <div align="center">
   <img src="docs/assets/brand/logo-mark.png" width="36" alt="">
   <br>
-  <sub>The sloth belongs to the same mascot family as 喵想 · FantasyAI Lab</sub>
+  <sub>The icon is a sloth dozing off while hugging a fountain pen — same mascot family as 喵想 · FantasyAI Lab</sub>
   <br>
   <sub>Slothdown · Made by <a href="https://github.com/melonlee">Melon</a> · <a href="https://fantasyailab.com/">FantasyAI Lab</a></sub>
 </div>
